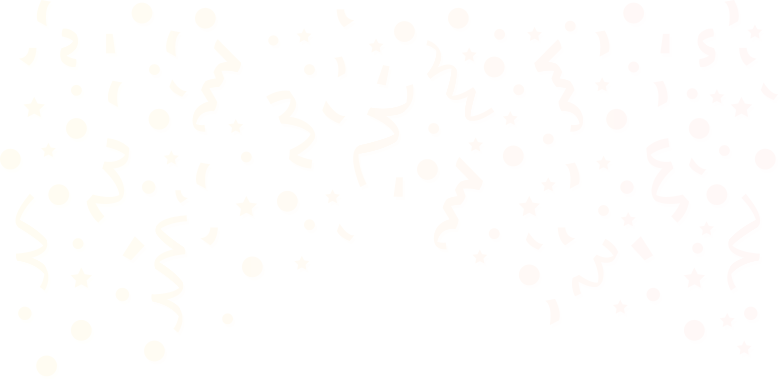
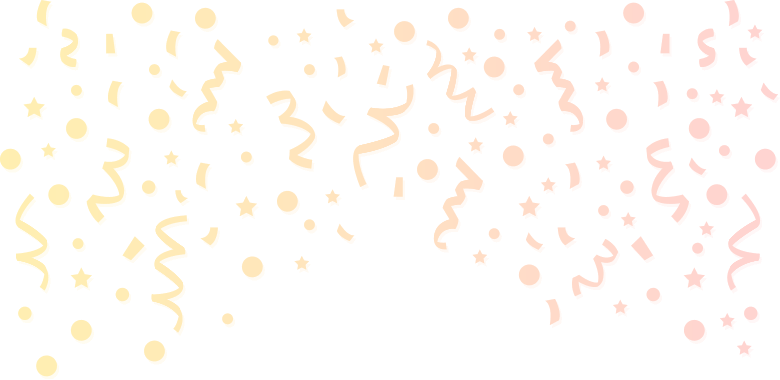
congo card done

diff --git a/sass/styles/applications/hb/_components.scss b/sass/styles/applications/hb/_components.scss
@@ -15,3 +15,4 @@
 @import "./components/hamburger-nav.scss";
 @import "./components/contest-card.scss";
 @import "./components/test-cases-card.scss";
+@import "./components/congo-card.scss";

diff --git a/sass/styles/applications/hb/components/congo-card.scss b/sass/styles/applications/hb/components/congo-card.scss
@@ -1,0 +1,11 @@
+.congo-card {
+  &__backdrop {
+    opacity: 0.45;
+  }
+
+  &__divider {
+    height: 4px;
+    width: 25%;
+    background-color: $white;
+  }
+}
